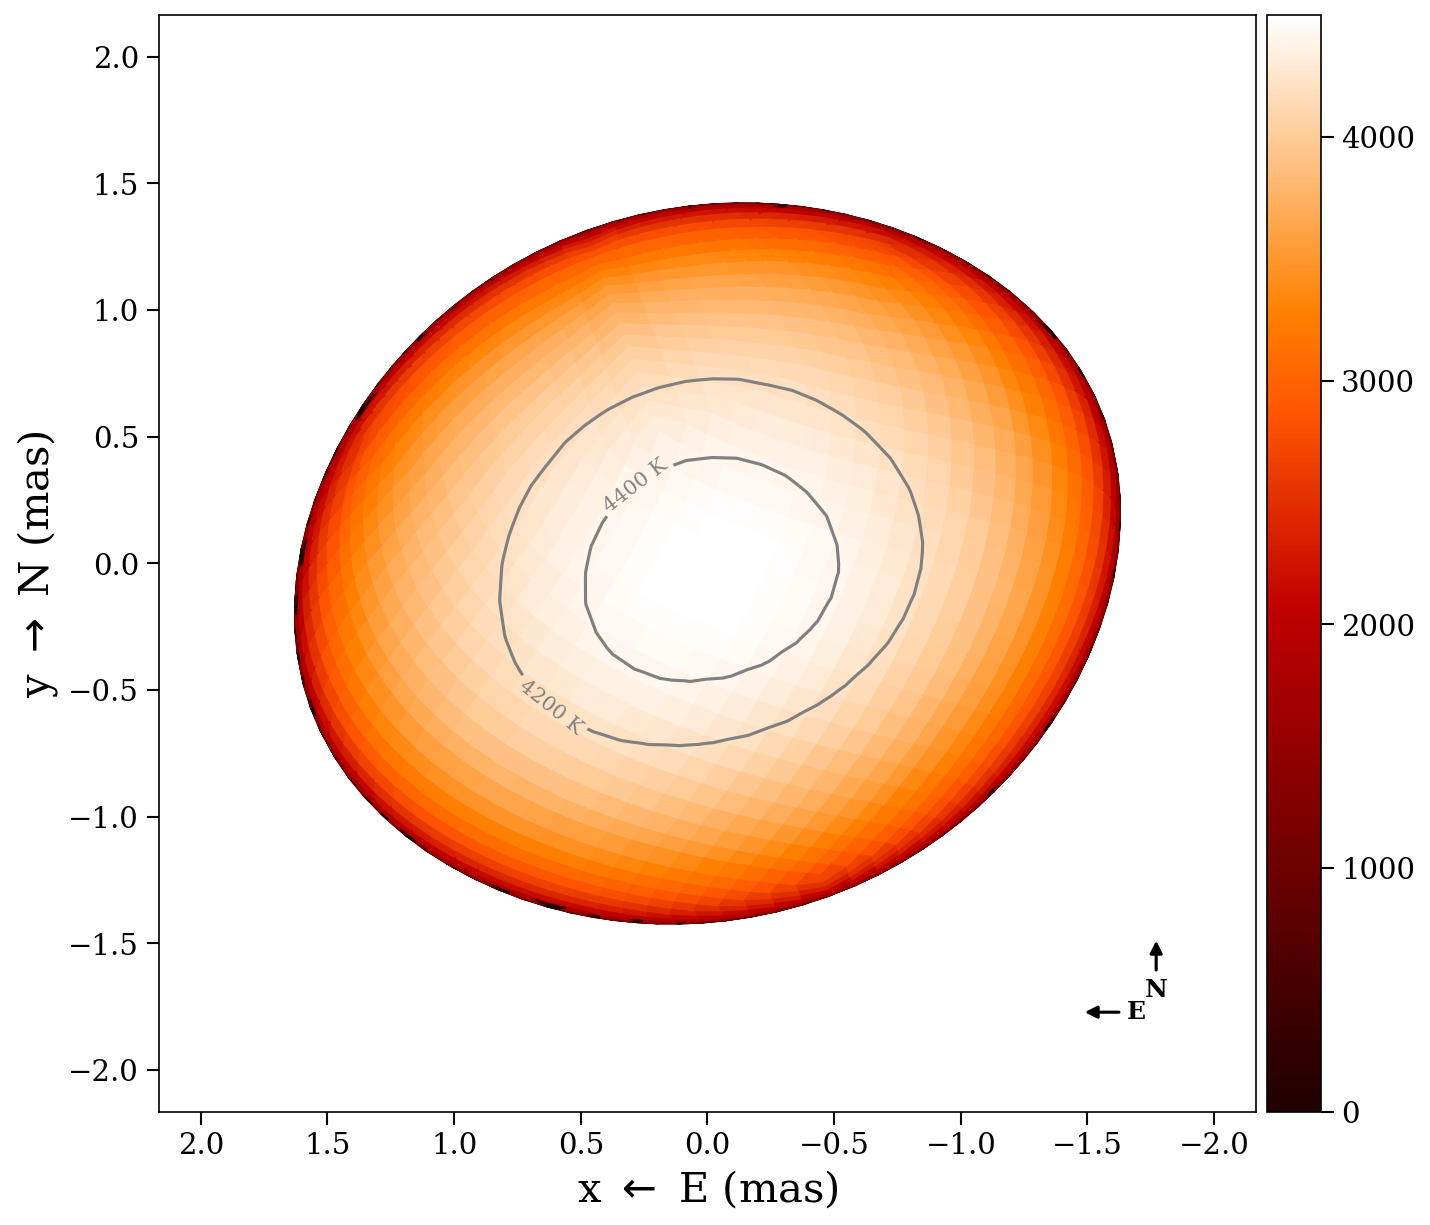
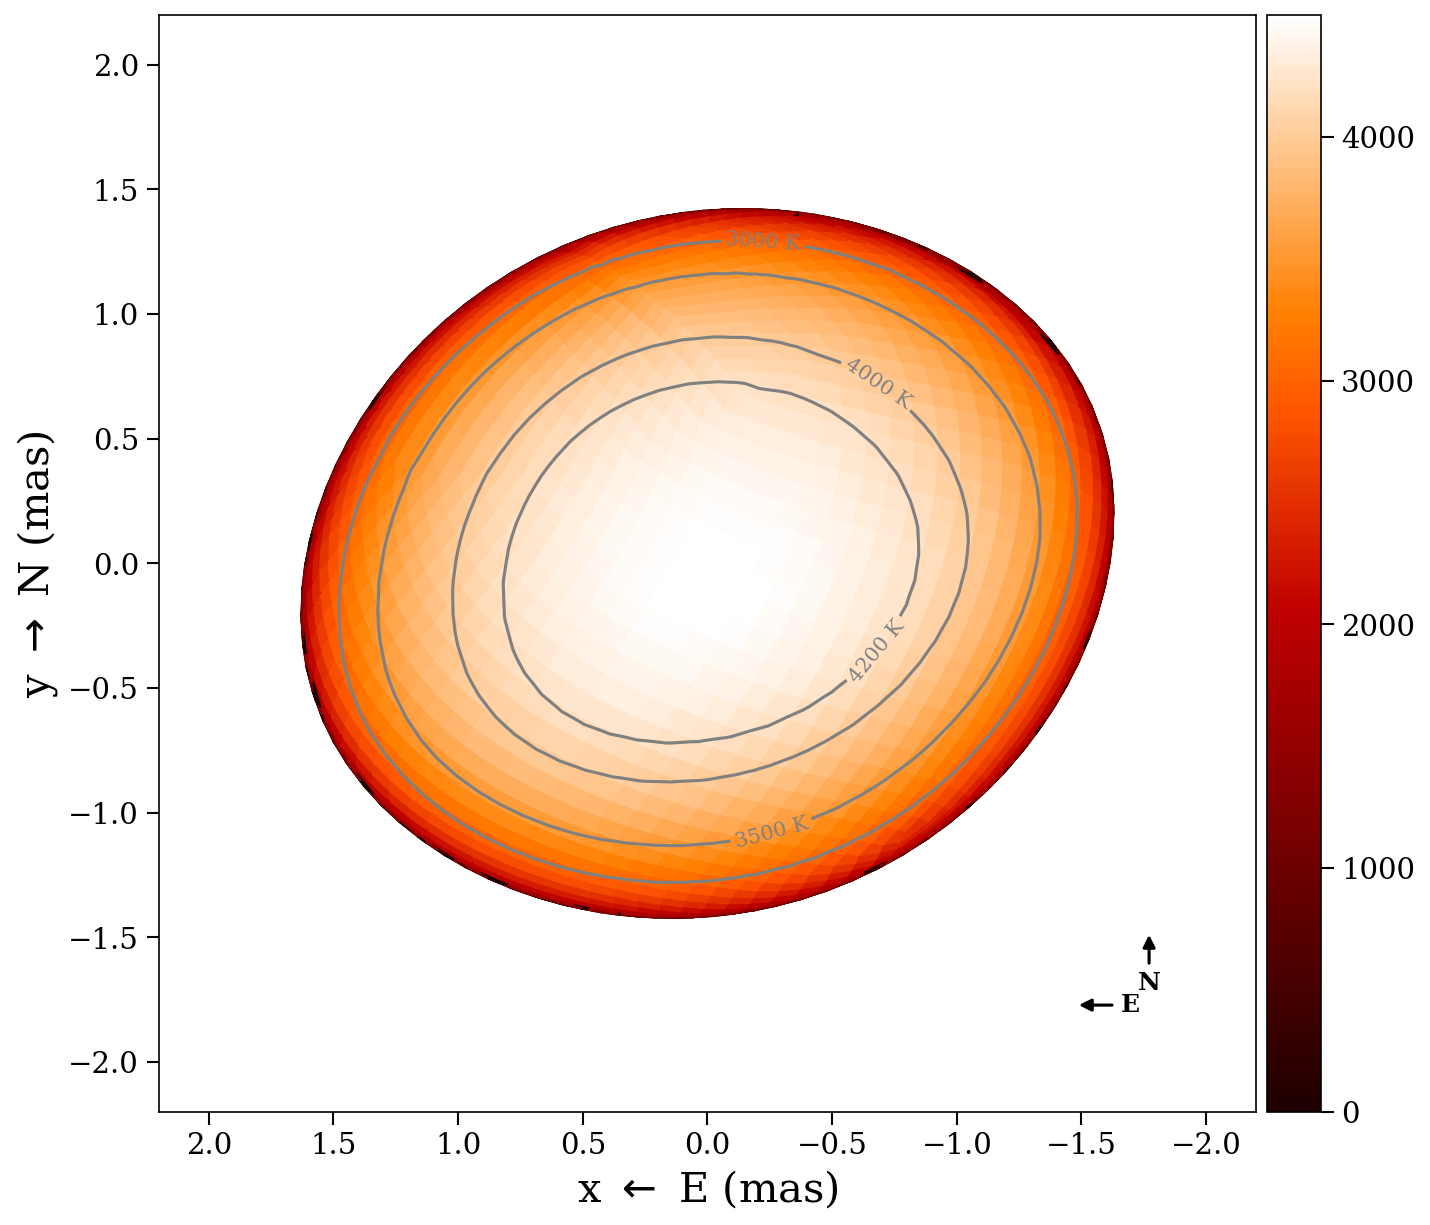
Cosmetic fixes

diff --git a/docs/src/guides/plotting.md b/docs/src/guides/plotting.md
@@ -40,7 +40,7 @@ temperature values:
 
 ```julia
 plot2d(tmap, stars[1];
-    contours       = [6000, 6500, 7000, 7500],  # temperature levels (K)
+    contours       = [3000, 3500, 4000, 4200],       # temperature levels (K)
     contour_color  = "gray",     # line and label color (default "gray")
     contour_labels = true,       # label each contour with "XXXX K" (default true)
     contour_fontsize = 10,       # label font size (default 10)
